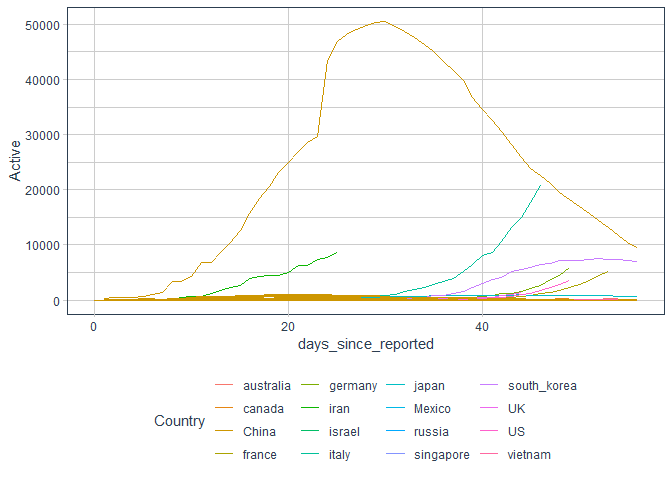
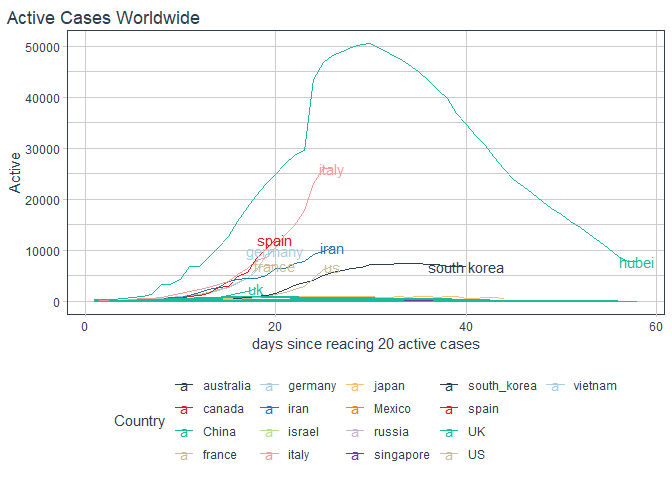
active cases now have laels

diff --git a/README.md b/README.md
@@ -30,7 +30,7 @@ cases_data <- suppressMessages(read_csv(latest_file))
 message("Data from ", min(cases_data$datetime)," to ",max(cases_data$datetime))
 ```
 
-    ## Data from 2020-01-21 to 2020-03-16
+    ## Data from 2020-01-21 to 2020-03-18
 
 ``` r
 max_date <- 
@@ -54,13 +54,13 @@ ny_cases <-
 message("Number of confirmed NY cases as of ",max_date,": ", ny_cases$Confirmed,"\n")
 ```
 
-    ## Number of confirmed NY cases as of 2020-03-16: 729
+    ## Number of confirmed NY cases as of 2020-03-18: 1650
 
 ``` r
 message("Number of active NY cases as of ",max_date,": ",ny_cases$Active)
 ```
 
-    ## Number of active NY cases as of 2020-03-16: 723
+    ## Number of active NY cases as of 2020-03-18: 1635
 
 # Process case data
 
@@ -173,9 +173,21 @@ processed %>%
 ``` r
 processed %>% 
   filter(Country!="Other") %>% 
+  filter(Active>20) %>% 
+  group_by(area) %>% 
+  mutate(days_since_reported=1:n()) %>% 
+  mutate(label = ifelse(days_since_reported==max(days_since_reported) & 
+                            Active>2000, area, NA_character_)) %>% 
   ggplot()+
   aes(x = days_since_reported, y = Active, group = area, label = area, color = Country)+
-  geom_line()
+  geom_line()+
+  
+  geom_text(aes(label = label))+
+  scale_color_tq()+
+  theme_tq()+
+  theme(plot.title.position = "plot")+
+  labs(title = "Active Cases Worldwide"
+       , x = "days since reacing 20 active cases")
 ```
 
 ![](README_files/figure-gfm/days%20since%20reported-1.png)<!-- -->
